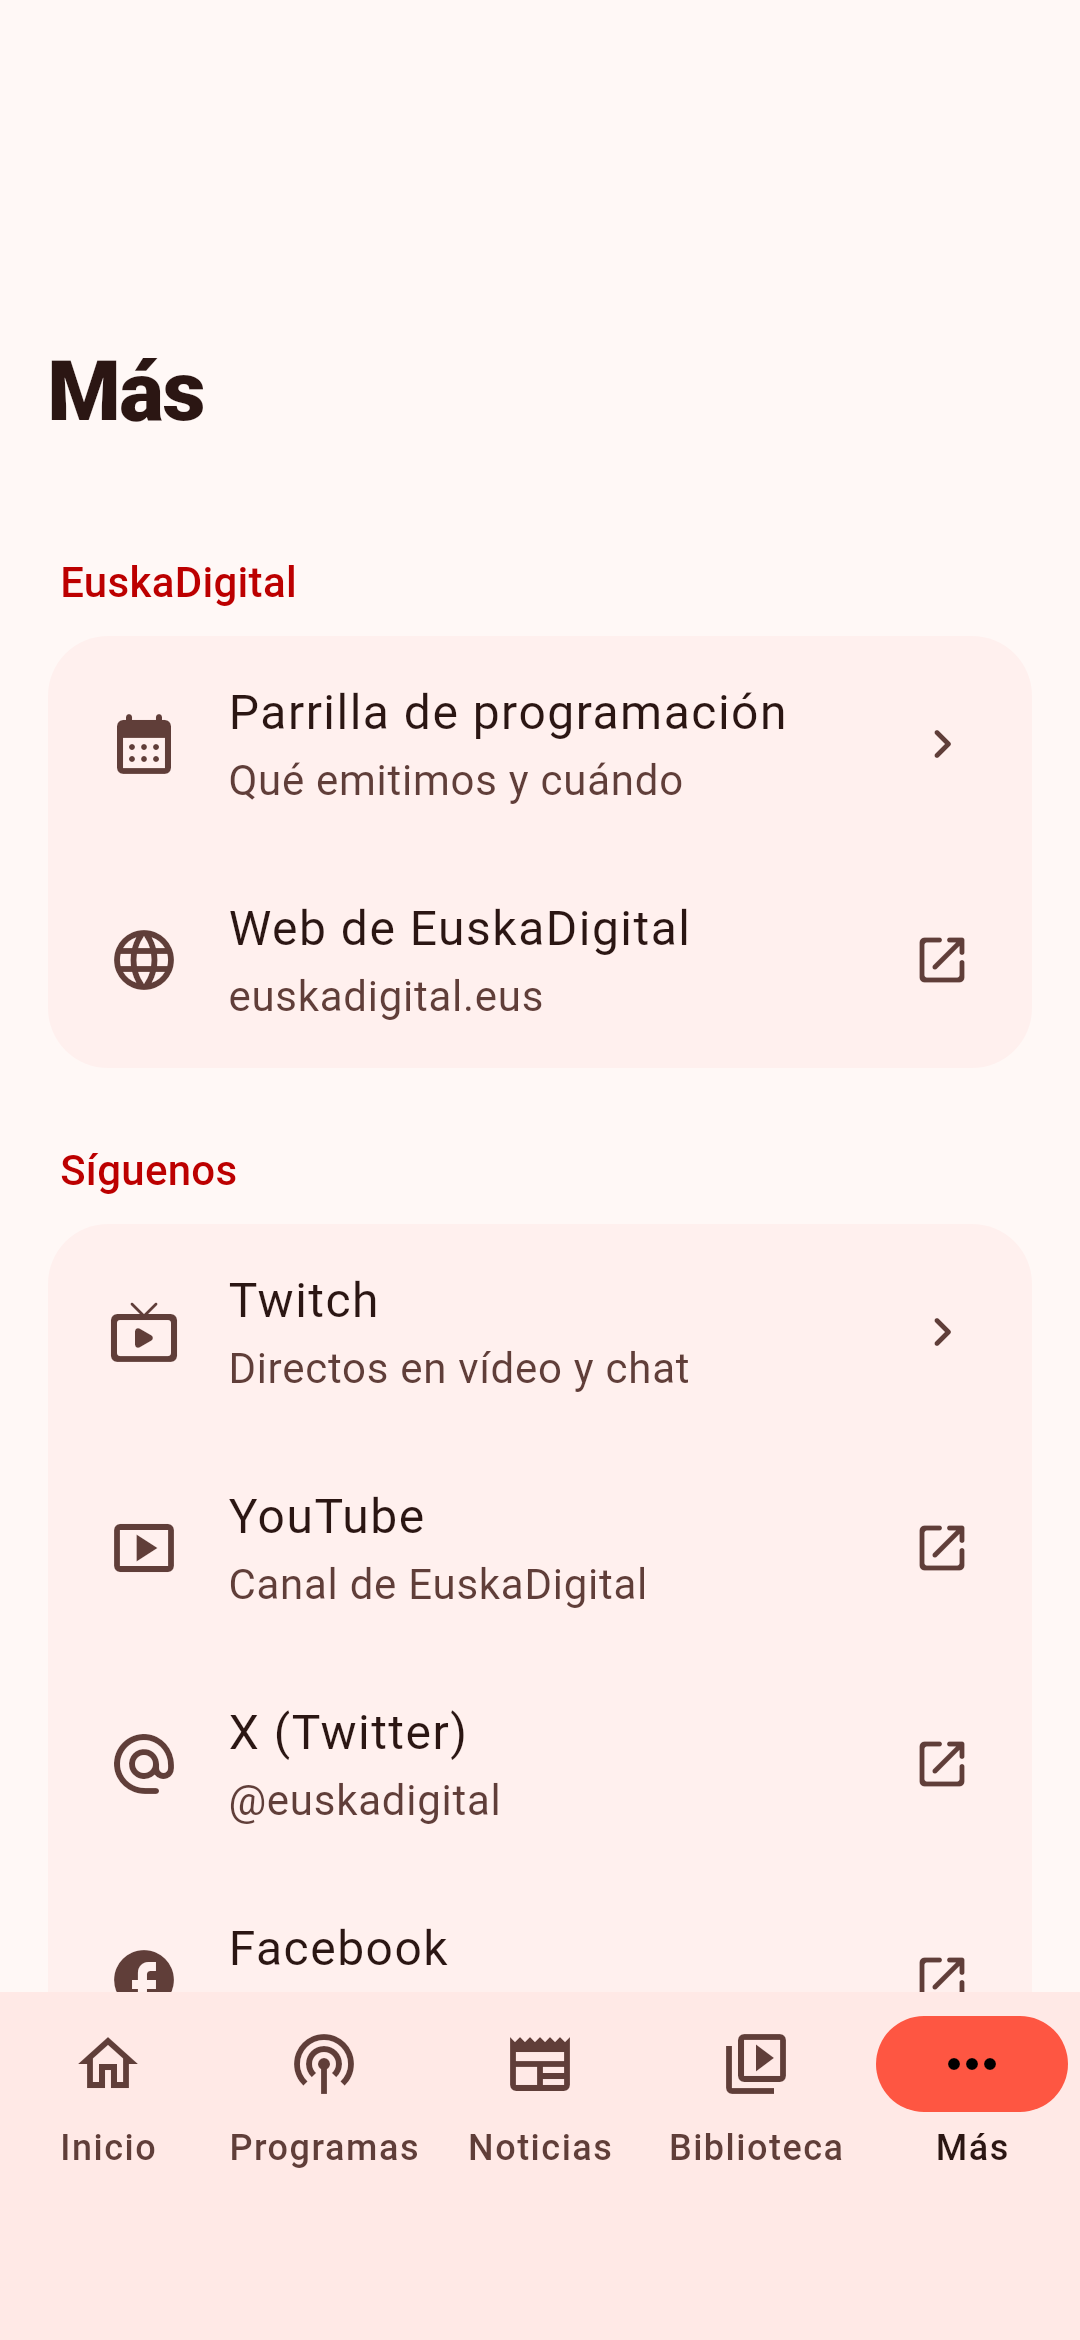
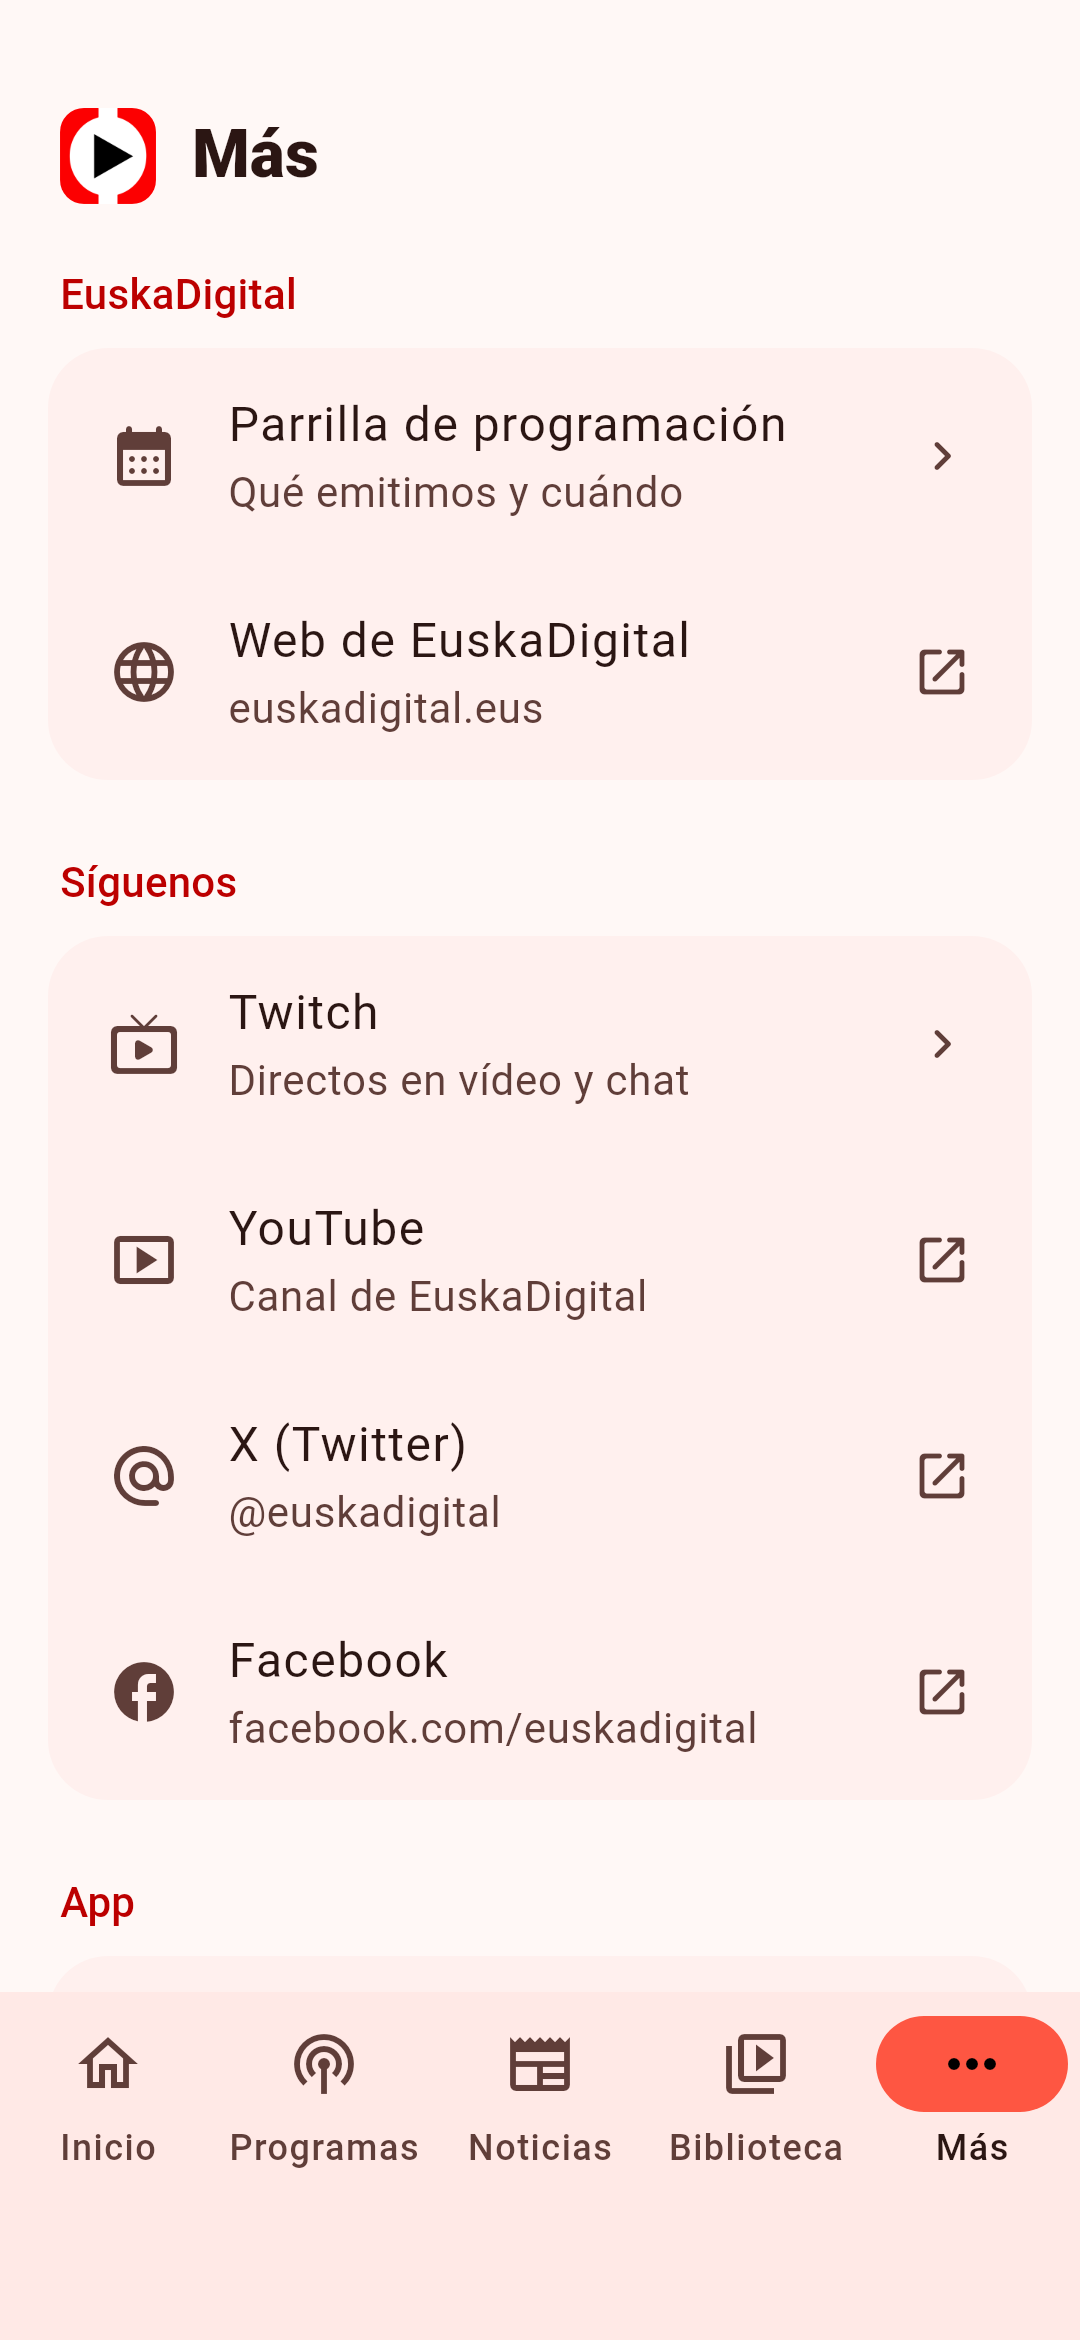
Cabecera común en las pestañas principales
Inicio, Programas, Noticias, Biblioteca y Más usan la misma cabecera
compacta con el logo; desaparece el hueco de las cabeceras grandes.

Claude-Session: https://claude.ai/code/session_016dLWWhA75jkREqA1LiHKKV

diff --git a/lib/ui/screens/more_screen.dart b/lib/ui/screens/more_screen.dart
@@ -7,22 +7,23 @@ import 'schedule_screen.dart';
 import 'settings_screen.dart';
 import 'twitch_screen.dart';
 import 'webview_screen.dart';
+import '../widgets/brand_header.dart';
 
 /// Enlaces, redes sociales, ajustes y acerca de.
 class MoreScreen extends StatelessWidget {
   const MoreScreen({super.key});
 
   static IconData _icon(String? name) => switch (name) {
-        'calendar' => Icons.calendar_month_rounded,
-        'web' => Icons.language_rounded,
-        'twitch' => Icons.live_tv_rounded,
-        'youtube' => Icons.smart_display_outlined,
-        'x' => Icons.alternate_email_rounded,
-        'facebook' => Icons.facebook_rounded,
-        'feedback' => Icons.mail_outline_rounded,
-        'privacy' => Icons.privacy_tip_outlined,
-        _ => Icons.link_rounded,
-      };
+    'calendar' => Icons.calendar_month_rounded,
+    'web' => Icons.language_rounded,
+    'twitch' => Icons.live_tv_rounded,
+    'youtube' => Icons.smart_display_outlined,
+    'x' => Icons.alternate_email_rounded,
+    'facebook' => Icons.facebook_rounded,
+    'feedback' => Icons.mail_outline_rounded,
+    'privacy' => Icons.privacy_tip_outlined,
+    _ => Icons.link_rounded,
+  };
 
   void _open(BuildContext context, LinkConfig link) {
     final twitch = context.read<AppConfig>().twitch;
@@ -31,9 +32,11 @@ class MoreScreen extends StatelessWidget {
     } else if (link.id == 'schedule' && context.read<AppConfig>().schedule != null) {
       Navigator.of(context).push(MaterialPageRoute(builder: (_) => const ScheduleScreen()));
     } else if (link.inApp) {
-      Navigator.of(context).push(MaterialPageRoute(
-        builder: (_) => WebViewScreen(title: link.title, url: link.url),
-      ));
+      Navigator.of(context).push(
+        MaterialPageRoute(
+          builder: (_) => WebViewScreen(title: link.title, url: link.url),
+        ),
+      );
     } else {
       launchUrl(Uri.parse(link.url), mode: LaunchMode.externalApplication);
     }
@@ -49,63 +52,65 @@ class MoreScreen extends StatelessWidget {
     final contact = config.links.where((l) => appLinks.contains(l.id)).toList();
 
     Widget group(String title, List<Widget> children) => Padding(
-          padding: const EdgeInsets.fromLTRB(16, 0, 16, 16),
-          child: Column(
-            crossAxisAlignment: CrossAxisAlignment.start,
-            children: [
-              Padding(
-                padding: const EdgeInsets.fromLTRB(4, 8, 4, 8),
-                child: Text(title, style: theme.textTheme.titleSmall?.copyWith(color: theme.colorScheme.primary)),
-              ),
-              Card(child: Column(children: children)),
-            ],
+      padding: const EdgeInsets.fromLTRB(16, 0, 16, 16),
+      child: Column(
+        crossAxisAlignment: CrossAxisAlignment.start,
+        children: [
+          Padding(
+            padding: const EdgeInsets.fromLTRB(4, 8, 4, 8),
+            child: Text(title, style: theme.textTheme.titleSmall?.copyWith(color: theme.colorScheme.primary)),
           ),
-        );
+          Card(child: Column(children: children)),
+        ],
+      ),
+    );
 
     ListTile tile(LinkConfig l) => ListTile(
-          leading: Icon(_icon(l.icon)),
-          title: Text(l.title),
-          subtitle: l.subtitle == null ? null : Text(l.subtitle!),
-          trailing: Icon(l.inApp ? Icons.chevron_right_rounded : Icons.open_in_new_rounded, size: 20),
-          onTap: () => _open(context, l),
-        );
+      leading: Icon(_icon(l.icon)),
+      title: Text(l.title),
+      subtitle: l.subtitle == null ? null : Text(l.subtitle!),
+      trailing: Icon(l.inApp ? Icons.chevron_right_rounded : Icons.open_in_new_rounded, size: 20),
+      onTap: () => _open(context, l),
+    );
 
     return Scaffold(
       body: CustomScrollView(
         slivers: [
-          const SliverAppBar.large(title: Text('Más')),
-          SliverList.list(children: [
-            group('EuskaDigital', [for (final l in main) tile(l)]),
-            group('Síguenos', [for (final l in social) tile(l)]),
-            group('App', [
-              ListTile(
-                leading: const Icon(Icons.settings_outlined),
-                title: const Text('Ajustes'),
-                trailing: const Icon(Icons.chevron_right_rounded, size: 20),
-                onTap: () => Navigator.of(context).push(MaterialPageRoute(builder: (_) => const SettingsScreen())),
-              ),
-              for (final l in contact) tile(l),
-              ListTile(
-                leading: const Icon(Icons.info_outline_rounded),
-                title: const Text('Acerca de'),
-                onTap: () => showAboutDialog(
-                  context: context,
-                  applicationName: config.name,
-                  applicationVersion: 'Versión 3.0',
-                  applicationIcon: ClipRRect(
-                    borderRadius: BorderRadius.circular(12),
-                    child: Image.asset('assets/branding/logo.png', width: 56, height: 56),
-                  ),
-                  children: [
-                    const Text('Radio online, podcasts y noticias de tecnología.'),
-                    const SizedBox(height: 12),
-                    SelectableText('Contacto: ${config.contactEmail}'),
-                  ],
+          const BrandSliverAppBar('Más'),
+          SliverList.list(
+            children: [
+              group('EuskaDigital', [for (final l in main) tile(l)]),
+              group('Síguenos', [for (final l in social) tile(l)]),
+              group('App', [
+                ListTile(
+                  leading: const Icon(Icons.settings_outlined),
+                  title: const Text('Ajustes'),
+                  trailing: const Icon(Icons.chevron_right_rounded, size: 20),
+                  onTap: () => Navigator.of(context).push(MaterialPageRoute(builder: (_) => const SettingsScreen())),
                 ),
-              ),
-            ]),
-            const SizedBox(height: 24),
-          ]),
+                for (final l in contact) tile(l),
+                ListTile(
+                  leading: const Icon(Icons.info_outline_rounded),
+                  title: const Text('Acerca de'),
+                  onTap: () => showAboutDialog(
+                    context: context,
+                    applicationName: config.name,
+                    applicationVersion: 'Versión 3.0',
+                    applicationIcon: ClipRRect(
+                      borderRadius: BorderRadius.circular(12),
+                      child: Image.asset('assets/branding/logo.png', width: 56, height: 56),
+                    ),
+                    children: [
+                      const Text('Radio online, podcasts y noticias de tecnología.'),
+                      const SizedBox(height: 12),
+                      SelectableText('Contacto: ${config.contactEmail}'),
+                    ],
+                  ),
+                ),
+              ]),
+              const SizedBox(height: 24),
+            ],
+          ),
         ],
       ),
     );

diff --git a/lib/ui/screens/programs_screen.dart b/lib/ui/screens/programs_screen.dart
@@ -5,6 +5,7 @@ import '../../config/app_config.dart';
 import '../../services/feed_repository.dart';
 import '../widgets/artwork.dart';
 import 'podcast_screen.dart';
+import '../widgets/brand_header.dart';
 
 /// Rejilla de programas agrupados.
 class ProgramsScreen extends StatelessWidget {
@@ -21,7 +22,7 @@ class ProgramsScreen extends StatelessWidget {
         onRefresh: () => feeds.refreshAll(force: true),
         child: CustomScrollView(
           slivers: [
-            const SliverAppBar.large(title: Text('Programas')),
+            const BrandSliverAppBar('Programas'),
             for (final group in config.programGroups) ...[
               SliverPadding(
                 padding: const EdgeInsets.fromLTRB(20, 8, 20, 12),
@@ -63,9 +64,7 @@ class _ProgramCard extends StatelessWidget {
 
     return InkWell(
       borderRadius: BorderRadius.circular(20),
-      onTap: () => Navigator.of(context).push(
-        MaterialPageRoute(builder: (_) => PodcastScreen(program: program)),
-      ),
+      onTap: () => Navigator.of(context).push(MaterialPageRoute(builder: (_) => PodcastScreen(program: program))),
       child: Column(
         crossAxisAlignment: CrossAxisAlignment.start,
         children: [
@@ -82,9 +81,7 @@ class _ProgramCard extends StatelessWidget {
           const SizedBox(height: 8),
           Text(program.title, maxLines: 2, overflow: TextOverflow.ellipsis, style: theme.textTheme.titleSmall),
           Text(
-            state.feed == null
-                ? (state.loading ? 'Cargando…' : 'Sin conexión')
-                : '$count episodios',
+            state.feed == null ? (state.loading ? 'Cargando…' : 'Sin conexión') : '$count episodios',
             style: theme.textTheme.bodySmall?.copyWith(color: theme.colorScheme.onSurfaceVariant),
           ),
         ],

diff --git a/lib/ui/screens/home_screen.dart b/lib/ui/screens/home_screen.dart
@@ -12,6 +12,7 @@ import '../widgets/news_card.dart';
 import '../widgets/twitch_card.dart';
 import 'videos_screen.dart';
 import 'episode_screen.dart';
+import '../widgets/brand_header.dart';
 
 /// Inicio: directo, continuar escuchando, últimos episodios y noticias.
 class HomeScreen extends StatelessWidget {
@@ -35,20 +36,7 @@ class HomeScreen extends StatelessWidget {
         onRefresh: () => feeds.refreshAll(force: true),
         child: CustomScrollView(
           slivers: [
-            SliverAppBar(
-              floating: true,
-              titleSpacing: 20,
-              title: Row(
-                children: [
-                  ClipRRect(
-                    borderRadius: BorderRadius.circular(8),
-                    child: Image.asset('assets/branding/logo.png', width: 32, height: 32),
-                  ),
-                  const SizedBox(width: 12),
-                  const Text('EuskaDigital', style: TextStyle(fontWeight: FontWeight.w800)),
-                ],
-              ),
-            ),
+            const BrandSliverAppBar('EuskaDigital'),
             const SliverToBoxAdapter(child: LiveCard()),
             const SliverToBoxAdapter(child: TwitchCard()),
             if (inProgress.isNotEmpty) ...[
@@ -60,7 +48,10 @@ class HomeScreen extends StatelessWidget {
             ),
             if (loadingFirstTime)
               const SliverToBoxAdapter(
-                child: Padding(padding: EdgeInsets.all(32), child: Center(child: CircularProgressIndicator())),
+                child: Padding(
+                  padding: EdgeInsets.all(32),
+                  child: Center(child: CircularProgressIndicator()),
+                ),
               )
             else if (latest.isEmpty)
               SliverToBoxAdapter(

diff --git a/lib/ui/widgets/brand_header.dart b/lib/ui/widgets/brand_header.dart
@@ -1,0 +1,35 @@
+import 'package:flutter/material.dart';
+
+/// Título de cabecera común a las pestañas principales: logo + texto.
+class BrandTitle extends StatelessWidget {
+  const BrandTitle(this.text, {super.key});
+  final String text;
+
+  @override
+  Widget build(BuildContext context) {
+    return Row(
+      children: [
+        ClipRRect(
+          borderRadius: BorderRadius.circular(8),
+          child: Image.asset('assets/branding/logo.png', width: 32, height: 32),
+        ),
+        const SizedBox(width: 12),
+        Flexible(
+          child: Text(text, overflow: TextOverflow.ellipsis, style: const TextStyle(fontWeight: FontWeight.w800)),
+        ),
+      ],
+    );
+  }
+}
+
+/// Cabecera compacta de las pestañas principales (Inicio, Programas,
+/// Noticias, Más), igual en todas.
+class BrandSliverAppBar extends StatelessWidget {
+  const BrandSliverAppBar(this.title, {super.key});
+  final String title;
+
+  @override
+  Widget build(BuildContext context) {
+    return SliverAppBar(floating: true, titleSpacing: 20, title: BrandTitle(title));
+  }
+}

diff --git a/lib/ui/screens/news_screen.dart b/lib/ui/screens/news_screen.dart
@@ -4,6 +4,7 @@ import 'package:provider/provider.dart';
 import '../../services/feed_repository.dart';
 import '../widgets/common.dart';
 import '../widgets/news_card.dart';
+import '../widgets/brand_header.dart';
 
 class NewsScreen extends StatelessWidget {
   const NewsScreen({super.key});
@@ -18,7 +19,7 @@ class NewsScreen extends StatelessWidget {
         onRefresh: () => feeds.refresh(FeedRepository.newsId, force: true),
         child: CustomScrollView(
           slivers: [
-            SliverAppBar.large(title: Text(feeds.config.news.title)),
+            BrandSliverAppBar(feeds.config.news.title),
             if (state.error != null && state.feed != null) SliverToBoxAdapter(child: InlineNotice(state.error!)),
             if (state.feed == null && state.loading)
               const SliverFillRemaining(hasScrollBody: false, child: Center(child: CircularProgressIndicator()))

diff --git a/lib/ui/screens/library_screen.dart b/lib/ui/screens/library_screen.dart
@@ -5,6 +5,7 @@ import '../../models/episode.dart';
 import '../../services/library_store.dart';
 import '../widgets/common.dart';
 import '../widgets/episode_tile.dart';
+import '../widgets/brand_header.dart';
 
 /// Biblioteca personal: en curso, favoritos, descargas e historial.
 class LibraryScreen extends StatelessWidget {
@@ -17,7 +18,8 @@ class LibraryScreen extends StatelessWidget {
       length: 4,
       child: Scaffold(
         appBar: AppBar(
-          title: const Text('Mi biblioteca'),
+          titleSpacing: 20,
+          title: const BrandTitle('Mi biblioteca'),
           bottom: const TabBar(
             isScrollable: true,
             tabAlignment: TabAlignment.start,
